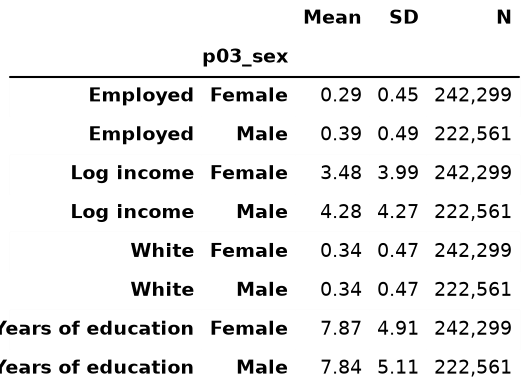
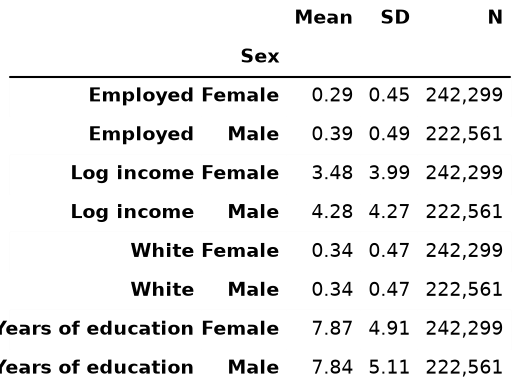
data and eda write up

diff --git a/docs/index.html b/docs/index.html
@@ -181,23 +181,30 @@ background: #041e42;
 
 <section id="introduction" class="level2" data-number="1">
 <h2 data-number="1" class="anchored" data-anchor-id="introduction"><span class="header-section-number">1</span> Introduction</h2>
-<p>The history of South Africa stands as a fascinating case study for the field of <code>Causal Inference for Computational Social Science</code>. The Apartheid era was black-and-white legalized discrimination, <em>literally</em>. The implementation of the National Party’s ideological framework hinged on the Population Registration Act of 1950, which required every citizen to be classified and registered under racial categories. The government was then able to dictate an individual’s rights from “cradle to grave” <span class="citation" data-cites="lawal_april_2024">(<a href="#ref-lawal_april_2024" role="doc-biblioref">Lawal 2024</a>)</span>. Subsequent legislation such as the Group Areas Act forced non-white populations into the country’s most economically unproductive areas, while “pass laws” criminalized the unregulated movement of Coloured citizens within urban spaces. Systemic oppression extended to all individual pursuits: schools were segregated and interpersonal relationships across racial lines were legally barred through measures like the Prohibition of Mixed Marriages Act.</p>
+<p>The history of South Africa stands as a fascinating case study for the field of <code>Causal Inference for Computational Social Science</code>. The Apartheid era was black-and-white legalized discrimination (literally). The implementation of the National Party’s ideological framework hinged on the Population Registration Act of 1950, which required every citizen to be classified and registered under racial categories. The government was then able to dictate an individual’s rights from “cradle to grave” <span class="citation" data-cites="lawal_april_2024">(<a href="#ref-lawal_april_2024" role="doc-biblioref">Lawal 2024</a>)</span>. Subsequent legislation such as the Group Areas Act forced non-white populations into the country’s most economically unproductive areas, while “pass laws” criminalized the unregulated movement of Coloured citizens within urban spaces. Systemic oppression extended to all individual pursuits: schools were segregated and interpersonal relationships across racial lines were legally barred through measures like the Prohibition of Mixed Marriages Act.</p>
 <p>In their foundational study examining the direct effects of these Apartheid-era classifications, researchers utilized historical data to demonstrate that being classified as White yielded a massive 4.5x increase in income for men and an average of 5 additional years of formal education. These advantages explained approximately 94% of the total observed mean income disparity between White and Coloured men <span class="citation" data-cites="pellicer_understanding_2023">(<a href="#ref-pellicer_understanding_2023" role="doc-biblioref">Pellicer and Ranchhod 2023</a>)</span>.</p>
-<p>The contact hypothesis <span class="citation" data-cites="bornman_patterns_2011">(<a href="#ref-bornman_patterns_2011" role="doc-biblioref">Bornman 2011</a>)</span> suggests a lack of contact between groups leads to negative attitudes. To foster improved intergroup attitudes, researchers argue that specific conditions must be met: equal status, shared goals, and the development of personal relationships supported and condoned by authorities. Whether post-Apartheid legislative reforms have effectively cultivated these conditions remains an open question. While all South Africans are now constitutionally recognized as equals, the state has implemented aggressive interventions, such as equity quotas for businesses with more than 50 employees, to actively redress historical disenfranchisement <span class="citation" data-cites="sakeliga_quotas_2025">(<a href="#ref-sakeliga_quotas_2025" role="doc-biblioref">Sakeliga 2025</a>)</span>. These policies remain highly contentious; critics characterize them as unconstitutional forms of social engineering. These competing sociological and political realities underscore a fundamental economic inquiry: <em>in the wake of Apartheid, to what extent have labor market disparities between racial categories actually changed?</em></p>
+<p>The contact hypothesis <span class="citation" data-cites="bornman_patterns_2011">(<a href="#ref-bornman_patterns_2011" role="doc-biblioref">Bornman 2011</a>)</span> suggests a lack of contact between groups leads to negative attitudes. To foster improved intergroup attitudes, researchers argue that specific conditions must be met: equal status, shared goals, and the development of personal relationships supported and condoned by authorities. Whether post-Apartheid legislative reforms have effectively cultivated these conditions remains an open question. While all South Africans are now constitutionally recognized as equals, the state has implemented aggressive interventions, such as equity quotas for businesses with more than 50 employees, to actively correct historical disenfranchisement <span class="citation" data-cites="sakeliga_quotas_2025">(<a href="#ref-sakeliga_quotas_2025" role="doc-biblioref">Sakeliga 2025</a>)</span>. These policies remain highly contentious; critics characterize them as unconstitutional forms of social engineering. The competing sociological and political realities underscore a fundamental economic inquiry: <em>in the wake of Apartheid, to what extent have labor market disparities between racial categories actually changed?</em></p>
 <p>This study aims to tackle that question by executing a pooled cross-sectional replication of the original research framework. Utilizing a 10% sample of microdata from the 2001 and 2011 South African Censuses, I analyze a cohort following the formal end of Apartheid in 1994. By stratifying the sample by gender and executing Ordinary Least Squares (OLS) regression models that control for age, employment status, and education level, I directly estimate income. Ultimately, this paper evaluates whether the racial wage gap between “White” and “Coloured” cohorts has shrunk, stagnated, or increased, providing fresh insights into South African labor outcomes.</p>
 </section>
 <section id="data" class="level2" data-number="2">
 <h2 data-number="2" class="anchored" data-anchor-id="data"><span class="header-section-number">2</span> Data</h2>
-<p>According to their website: “Censuses are principal means of collecting basic population and housing statistics required for social and economic development, policy interventions, their implementation and evaluation. The Post-Apartheid South African government has conducted three Censuses, in 1996, 2001 and 2011.”</p>
-<p>For the purposes of this study, the 2001 and 2011 datasets were utilized. Both datasets are a 10% sample.</p>
-<p><span class="citation" data-cites="statssa_census_2011">(<a href="#ref-statssa_census_2011" role="doc-biblioref">Statistics South Africa 2015</a>)</span></p>
-<p>Did not keep unspecified income (339531 ~7.8%) or unknown employment status (3222 ~0.1%) in data, removed entries</p>
-<p><span class="citation" data-cites="statssa_census_2001">(<a href="#ref-statssa_census_2001" role="doc-biblioref">Statistics South Africa 2011</a>)</span></p>
+<p>This study uses data from the 2001 <span class="citation" data-cites="statssa_census_2001">(<a href="#ref-statssa_census_2001" role="doc-biblioref">Statistics South Africa 2011</a>)</span> and 2011 <span class="citation" data-cites="statssa_census_2011">(<a href="#ref-statssa_census_2011" role="doc-biblioref">Statistics South Africa 2015</a>)</span> South African Population Censuses<a href="#fn1" class="footnote-ref" id="fnref1" role="doc-noteref"><sup>1</sup></a> conducted by Statistics South Africa (Stats SA). Both the 2001 and 2011 datasets used in this analysis are 10% public-use samples of the full census population.</p>
+<p>Observations with unspecified income or unknown employment status were excluded from the analysis. Specifically, 339,531 observations (~7.8% of the sample) with unspecified income and 3,222 observations (~0.1% of the sample) with unknown employment status were removed prior to analysis.</p>
+<p>The variables were selected to match those used in the original study, which analyzed differences using sex, race, years of education, employment status, and log income. For the 2011 Census, the following variables were extracted from the person-level dataset:</p>
+<ul>
+<li><strong>Sex</strong> (<code>F03_SEX</code>), coded as 1 = Male and 2 = Female</li>
+<li><strong>Year</strong> (<code>P01_YEAR</code>)</li>
+<li><strong>Population group</strong> (<code>P05_POP_GROUP</code>), coded as Black African, Coloured, Indian/Asian, White, and Other</li>
+<li><strong>Income</strong> (<code>P16_INCOME</code>), reported as categorical income brackets ranging from no income to R 2,457,601, with a separate category for unspecified income</li>
+<li><strong>Educational attainment</strong> (<code>P20_EDULEVEL</code>), ranging from Grade 0 through higher degree, with additional categories for no schooling and other qualifications</li>
+<li><strong>Employment status</strong> (<code>P23A_EMPLOYMENTSTATUS</code>), coded as employed, unemployed, or unknown</li>
+</ul>
+<p>For the 2001 Census, comparable variables were identified to maximize consistency across survey years. These included sex (<code>p03_sex</code>), race (<code>p06_race</code>), education (<code>p17_educ</code>), employment status (<code>der10_em</code>), and income (<code>p22_incm</code>). Additional variables related to date of birth (<code>p02_day</code>, <code>p02_mth</code>, and <code>p02_yr</code>) and age (<code>p02_age</code>) were retained.</p>
+<p>The variable definitions were obtained from the official DataFirst data dictionary for the South African Census person dataset.</p>
 </section>
 <section id="exploratory-analysis" class="level2" data-number="3">
 <h2 data-number="3" class="anchored" data-anchor-id="exploratory-analysis"><span class="header-section-number">3</span> Exploratory Analysis</h2>
-<p><strong>Tables</strong></p>
-<p>Here is the 2001 summary table</p>
+<p>Tables 1 and 2 present descriptive statistics for the 2001 and 2011 Census samples by sex. Across both census years, men exhibited higher employment rates than women. In 2001, 39% of men were employed compared to 29% of women, while in 2011 employment increased slightly for both groups to 38% and 31%, respectively. Average log income also increased substantially between 2001 and 2011 for both sexes, with men consistently reporting higher average log incomes than women. Mean years of education increased considerably over the decade, rising from approximately 7.9 years in 2001 to 13.7 years in 2011 for both men and women. The proportion of White respondents remained relatively stable across years and sexes, accounting for roughly one-third of each analytic sample.</p>
 <div id="fig-2001-table" class="quarto-float quarto-figure quarto-figure-center anchored">
 <figure class="quarto-float quarto-float-fig figure">
 <div aria-describedby="fig-2001-table-caption-0ceaefa1-69ba-4598-a22c-09a6ac19f8ca">
@@ -208,7 +215,6 @@ Figure&nbsp;1: 2001 summary table
 </figcaption>
 </figure>
 </div>
-<p>Here is the 2011 summary table</p>
 <div id="fig-2001-table" class="quarto-float quarto-figure quarto-figure-center anchored">
 <figure class="quarto-float quarto-float-fig figure">
 <div aria-describedby="fig-2001-table-caption-0ceaefa1-69ba-4598-a22c-09a6ac19f8ca">
@@ -219,8 +225,7 @@ Figure&nbsp;2: 2011 summary table
 </figcaption>
 </figure>
 </div>
-<p><strong>Income Graphs by Gender</strong></p>
-<p>Here’s the 2001 census data</p>
+<p>The distribution of log income by race and sex is shown in Figures 1 and 2 for the 2001 and 2011 Census samples, respectively. Both years exhibit a pronounced spike at zero log income, reflecting individuals who reported no income. Among respondents with positive income, the distributions differ noticeably by race. White respondents display income distributions centered at higher log-income values than Coloured respondents for both men and women, with the White distributions shifted to the right and exhibiting a broader upper tail</p>
 <div id="fig-2001-income" class="quarto-float quarto-figure quarto-figure-center anchored">
 <figure class="quarto-float quarto-float-fig figure">
 <div aria-describedby="fig-2001-income-caption-0ceaefa1-69ba-4598-a22c-09a6ac19f8ca">
@@ -231,7 +236,6 @@ Figure&nbsp;3: 2001 income density plot by gender
 </figcaption>
 </figure>
 </div>
-<p>Here is the 2011 census data</p>
 <div id="fig-2011-income" class="quarto-float quarto-figure quarto-figure-center anchored">
 <figure class="quarto-float quarto-float-fig figure">
 <div aria-describedby="fig-2011-income-caption-0ceaefa1-69ba-4598-a22c-09a6ac19f8ca">
@@ -242,6 +246,7 @@ Figure&nbsp;4: 2011 income density plot by gender
 </figcaption>
 </figure>
 </div>
+<p>Comparing the two census years, the overall shape of the income distributions remains similar, although the distributions for positive income shift toward higher log-income values in 2011. The separation between the White and Coloured income distributions is evident in both years for males and females, suggesting persistent differences in reported earnings across racial groups. Additionally, the income distributions for men are slightly shifted toward higher values than those for women within each racial group, consistent with the descriptive statistics reported in Tables 1 and 2.</p>
 </section>
 <section id="models" class="level2" data-number="4">
 <h2 data-number="4" class="anchored" data-anchor-id="models"><span class="header-section-number">4</span> Models</h2>
@@ -324,7 +329,13 @@ Statistics South Africa. 2011. <span>“<a href="https://doi.org/10.25828/bp70-m
 </div>
 </section>
 
-</main>
+
+<div id="quarto-appendix" class="default"><section id="footnotes" class="footnotes footnotes-end-of-document" role="doc-endnotes"><h2 class="anchored quarto-appendix-heading">Footnotes</h2>
+
+<ol>
+<li id="fn1"><p>Censuses are principal means of collecting basic population and housing statistics required for social and economic development, policy interventions, their implementation and evaluation. The Post-Apartheid South African government has conducted three Censuses, in 1996, 2001 and 2011.<a href="#fnref1" class="footnote-back" role="doc-backlink">↩</a></p></li>
+</ol>
+</section></div></main>
 <!-- /main column -->
 <script id="quarto-html-after-body" type="application/javascript">
   window.document.addEventListener("DOMContentLoaded", function (event) {
